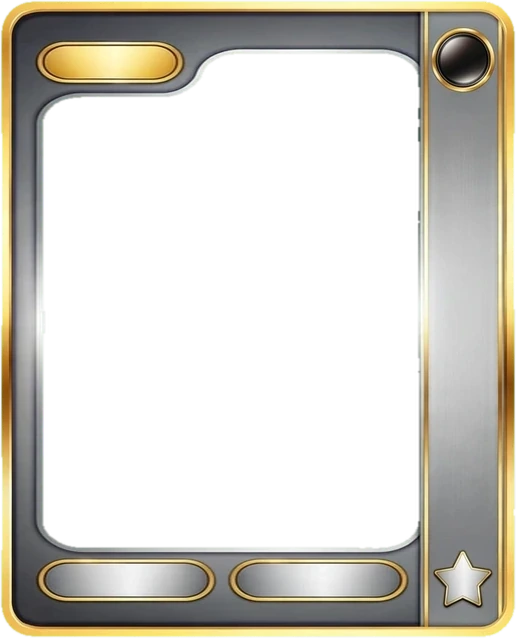
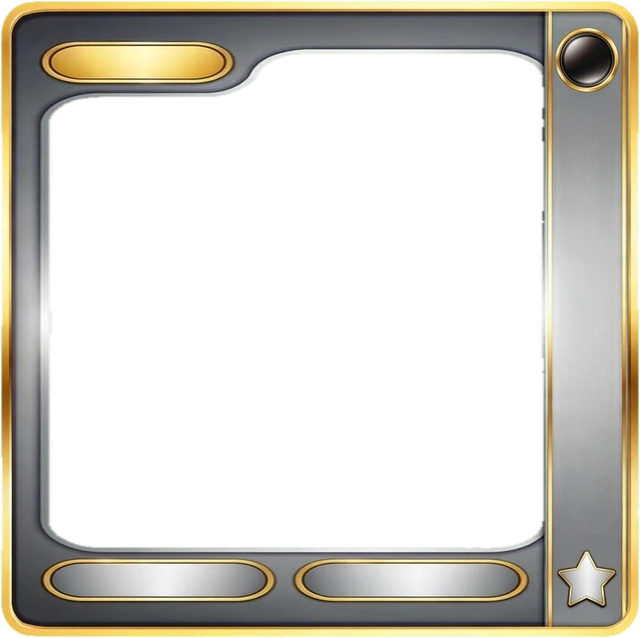
Frame v7: square art window (frame re-cut), the portrait fills it edge to edge with nothing cropped; square cards on field and shop
Claude-Session: https://claude.ai/code/session_01Wbggb4V1dqsWsK9Q53zZ7L

diff --git a/docs/sw.js b/docs/sw.js
@@ -1,7 +1,7 @@
-// ZOR service worker, build bbfde9cd94 (generated by tools/build-single.js)
-const SHELL = 'zor-shell-bbfde9cd94', ASSETS = 'zor-assets';
-const CORE = ["app.30e8706ce3.js","app.63cae4dc41.css"];
-const KEEP = new Set(["app.30e8706ce3.js","app.63cae4dc41.css","assets/characters/ash_ronin.b91304d25a.jpg","assets/characters/caldera_seer.8efcbc0994.jpg","assets/characters/chrome_ronin.91da853ee1.jpg","assets/characters/coral_sentinel.b6ddec339c.jpg","assets/characters/daigo.cc3edd87ac.webp","assets/characters/daikai.e1c7f0112b.webp","assets/characters/firewall_unit.2394f02d73.jpg","assets/characters/forge_bulwark.39dc9480d6.jpg","assets/characters/gensai.408f19856a.webp","assets/characters/genzo.1f7f86d06c.webp","assets/characters/godo.3fe19dfc28.jpg","assets/characters/goka.959baa5cfd.jpg","assets/characters/grid_hound.97bbae0b7a.jpg","assets/characters/haruka.8ee667bd90.webp","assets/characters/hayate.5533bd2fef.webp","assets/characters/hinotori.bca3e4ca4b.webp","assets/characters/hisui.94d6633b67.webp","assets/characters/ibara.f79f7b013e.webp","assets/characters/juzo.38c23c791c.jpg","assets/characters/kagemaru.0a9f0b1128.webp","assets/characters/kagira.c83f24f3ba.jpg","assets/characters/kairyu.16caa1bd15.webp","assets/characters/kaito.0d2e300029.jpg","assets/characters/kaminari.1599b31ad7.webp","assets/characters/kashiwagi.9c1b9ca029.webp","assets/characters/kazehaya.3ccd2157c4.webp","assets/characters/kinoko.9ec597579f.webp","assets/characters/kodama.3d77b1f0b5.webp","assets/characters/kogetsu.7b23ef4551.jpg","assets/characters/kota.04dbb7995d.webp","assets/characters/kurenai.93edfd5786.jpg","assets/characters/lunar_blade.126fa30053.jpg","assets/characters/merin.ebcfd77e4e.jpg","assets/characters/mikazuki.6865ec476b.webp","assets/characters/mist_witch.f98a2be0d7.jpg","assets/characters/mitsuki.f0ed177592.jpg","assets/characters/miyuki.6a7d1b2135.jpg","assets/characters/mizuki.7e7b4c2f41.jpg","assets/characters/momo.b3e2674318.jpg","assets/characters/moss_warden.e168290347.jpg","assets/characters/mugen.14f10aad71.jpg","assets/characters/natsuki.dc70bd05f2.jpg","assets/characters/nayako.a5739a8a64.webp","assets/characters/orath.6416dc3076.jpg","assets/characters/otohime.76f21413dc.webp","assets/characters/pixel_sniper.51b8a1f42d.jpg","assets/characters/pyre_archer.2217e7a133.jpg","assets/characters/reiji.95538d7786.jpg","assets/characters/rika.45b3683bfe.webp","assets/characters/root_shaman.dc642bfab8.jpg","assets/characters/ryuji.adeae7a07a.jpg","assets/characters/ryujin.5235bfbbe3.jpg","assets/characters/seiji.7efa42c032.jpg","assets/characters/shiori.002cfc272d.webp","assets/characters/shirayuki.3a99692e55.webp","assets/characters/shiro.e6eb3ecf74.jpg","assets/characters/spark_wraith.f1f843dfe0.jpg","assets/characters/spectral_coder.6e74c78da5.jpg","assets/characters/taiju.83b72a2264.webp","assets/characters/takashi.6919365abc.webp","assets/characters/thora.901bdb8770.webp","assets/characters/thorn_fox.5596e5dee5.jpg","assets/characters/tide_priest.d374228355.jpg","assets/characters/tomoe.6418faa99c.jpg","assets/characters/tsubaki.485b649132.jpg","assets/characters/wakaba.3a96f9a22b.webp","assets/characters/wave_caller.10d7340319.jpg","assets/characters/wild_stalker.a68ac5344e.jpg","assets/characters/yoshino.d1b870251e.webp","assets/characters/yozora.b0d62df4b3.jpg","assets/characters/yuta.fb57d5b062.jpg","assets/characters/zerokai.0a7cf4d51e.jpg","assets/fonts/lalezar-arabic-400-normal.c115bb42ec.woff2","assets/fonts/lalezar-latin-400-normal.3080e8aefe.woff2","assets/fonts/readex-pro-arabic-400-normal.e0c1f86d03.woff2","assets/fonts/readex-pro-arabic-500-normal.a8acfe2274.woff2","assets/fonts/readex-pro-arabic-700-normal.cc70fda83e.woff2","assets/fonts/readex-pro-latin-400-normal.7664b676c7.woff2","assets/fonts/readex-pro-latin-500-normal.1ef477132b.woff2","assets/fonts/readex-pro-latin-700-normal.d47d4c818f.woff2","assets/frames/ember.19b2b3cc28.webp","assets/frames/ember-sil.b3b62a001c.webp","assets/frames/tide.c02c52dd37.webp","assets/frames/tide-sil.f65be4a756.webp","assets/frames/neon.adf53493b8.webp","assets/frames/neon-sil.d36b6424aa.webp","assets/frames/sylvan.a7348a89d5.webp","assets/frames/sylvan-sil.ef3a0fca85.webp","assets/frames/arena-tavern.848035afa3.webp","assets/frames/arena-gambler.0617dbb114.webp","assets/frames/arena-forge.5663b1e378.webp","assets/frames/arena-map.f3a85fdc1f.webp","assets/frames/arena-dungeon.87e9898aec.webp","assets/frames/arena-temple.62ca8793fc.webp","assets/ui/ic_shard.57e3afc1a2.webp","assets/ui/ic_gift.f05e6ed8af.webp","assets/ui/ic_home.aceefed7fc.webp","assets/ui/ic_cards.d27bbeede5.webp","assets/ui/ic_pack.9fc820de64.webp","assets/ui/ic_medal.ea32305964.webp","assets/ui/ic_tower.bf4e7ec058.webp","assets/ui/ic_more.51a6dac3ab.webp","assets/ui/ic_gear.2358906162.webp","assets/ui/bg_tide.c3037c3102.webp","assets/ui/btn_red.d63414bfb5.webp","assets/ui/arena/bg.333d4f46f6.webp","assets/ui/arena/slot.fa4b2f815d.webp","assets/ui/arena/btn.68220622e0.webp","assets/ui/arena/eq.24e584270e.webp","assets/ui/arena/drawer.b0073b6f97.webp","assets/ui/arena/card.07cd71c3b0.webp","assets/ui/arena/handle.774c9d2419.webp","assets/ui/arena2/field.e1297bd395.webp","assets/ui/arena2/wood.7dd4a362d5.webp","assets/ui/arena2/up.2463f88457.webp","assets/ui/arena2/refresh.6f3f00f700.webp","assets/ui/arena2/lock.5959281e27.webp","assets/ui/arena2/off.49b0294c14.webp","assets/ui/arena2/eq.80abd41b0c.webp","assets/ui/arena2/bsock.75aa7edfaa.webp","assets/ui/arena2/ready.0ca8a61240.webp","assets/ui/arena2/frame_common.1371b58bdf.webp","assets/ui/arena2/frame_rare.46d3c32cb8.webp","assets/ui/arena2/frame_epic.ca8e4f70ea.webp","assets/ui/arena2/frame_legendary.2f128577cc.webp"]);
+// ZOR service worker, build 034b41f8c2 (generated by tools/build-single.js)
+const SHELL = 'zor-shell-034b41f8c2', ASSETS = 'zor-assets';
+const CORE = ["app.30e8706ce3.js","app.41dc40c6a6.css"];
+const KEEP = new Set(["app.30e8706ce3.js","app.41dc40c6a6.css","assets/characters/ash_ronin.b91304d25a.jpg","assets/characters/caldera_seer.8efcbc0994.jpg","assets/characters/chrome_ronin.91da853ee1.jpg","assets/characters/coral_sentinel.b6ddec339c.jpg","assets/characters/daigo.cc3edd87ac.webp","assets/characters/daikai.e1c7f0112b.webp","assets/characters/firewall_unit.2394f02d73.jpg","assets/characters/forge_bulwark.39dc9480d6.jpg","assets/characters/gensai.408f19856a.webp","assets/characters/genzo.1f7f86d06c.webp","assets/characters/godo.3fe19dfc28.jpg","assets/characters/goka.959baa5cfd.jpg","assets/characters/grid_hound.97bbae0b7a.jpg","assets/characters/haruka.8ee667bd90.webp","assets/characters/hayate.5533bd2fef.webp","assets/characters/hinotori.bca3e4ca4b.webp","assets/characters/hisui.94d6633b67.webp","assets/characters/ibara.f79f7b013e.webp","assets/characters/juzo.38c23c791c.jpg","assets/characters/kagemaru.0a9f0b1128.webp","assets/characters/kagira.c83f24f3ba.jpg","assets/characters/kairyu.16caa1bd15.webp","assets/characters/kaito.0d2e300029.jpg","assets/characters/kaminari.1599b31ad7.webp","assets/characters/kashiwagi.9c1b9ca029.webp","assets/characters/kazehaya.3ccd2157c4.webp","assets/characters/kinoko.9ec597579f.webp","assets/characters/kodama.3d77b1f0b5.webp","assets/characters/kogetsu.7b23ef4551.jpg","assets/characters/kota.04dbb7995d.webp","assets/characters/kurenai.93edfd5786.jpg","assets/characters/lunar_blade.126fa30053.jpg","assets/characters/merin.ebcfd77e4e.jpg","assets/characters/mikazuki.6865ec476b.webp","assets/characters/mist_witch.f98a2be0d7.jpg","assets/characters/mitsuki.f0ed177592.jpg","assets/characters/miyuki.6a7d1b2135.jpg","assets/characters/mizuki.7e7b4c2f41.jpg","assets/characters/momo.b3e2674318.jpg","assets/characters/moss_warden.e168290347.jpg","assets/characters/mugen.14f10aad71.jpg","assets/characters/natsuki.dc70bd05f2.jpg","assets/characters/nayako.a5739a8a64.webp","assets/characters/orath.6416dc3076.jpg","assets/characters/otohime.76f21413dc.webp","assets/characters/pixel_sniper.51b8a1f42d.jpg","assets/characters/pyre_archer.2217e7a133.jpg","assets/characters/reiji.95538d7786.jpg","assets/characters/rika.45b3683bfe.webp","assets/characters/root_shaman.dc642bfab8.jpg","assets/characters/ryuji.adeae7a07a.jpg","assets/characters/ryujin.5235bfbbe3.jpg","assets/characters/seiji.7efa42c032.jpg","assets/characters/shiori.002cfc272d.webp","assets/characters/shirayuki.3a99692e55.webp","assets/characters/shiro.e6eb3ecf74.jpg","assets/characters/spark_wraith.f1f843dfe0.jpg","assets/characters/spectral_coder.6e74c78da5.jpg","assets/characters/taiju.83b72a2264.webp","assets/characters/takashi.6919365abc.webp","assets/characters/thora.901bdb8770.webp","assets/characters/thorn_fox.5596e5dee5.jpg","assets/characters/tide_priest.d374228355.jpg","assets/characters/tomoe.6418faa99c.jpg","assets/characters/tsubaki.485b649132.jpg","assets/characters/wakaba.3a96f9a22b.webp","assets/characters/wave_caller.10d7340319.jpg","assets/characters/wild_stalker.a68ac5344e.jpg","assets/characters/yoshino.d1b870251e.webp","assets/characters/yozora.b0d62df4b3.jpg","assets/characters/yuta.fb57d5b062.jpg","assets/characters/zerokai.0a7cf4d51e.jpg","assets/fonts/lalezar-arabic-400-normal.c115bb42ec.woff2","assets/fonts/lalezar-latin-400-normal.3080e8aefe.woff2","assets/fonts/readex-pro-arabic-400-normal.e0c1f86d03.woff2","assets/fonts/readex-pro-arabic-500-normal.a8acfe2274.woff2","assets/fonts/readex-pro-arabic-700-normal.cc70fda83e.woff2","assets/fonts/readex-pro-latin-400-normal.7664b676c7.woff2","assets/fonts/readex-pro-latin-500-normal.1ef477132b.woff2","assets/fonts/readex-pro-latin-700-normal.d47d4c818f.woff2","assets/frames/ember.19b2b3cc28.webp","assets/frames/ember-sil.b3b62a001c.webp","assets/frames/tide.c02c52dd37.webp","assets/frames/tide-sil.f65be4a756.webp","assets/frames/neon.adf53493b8.webp","assets/frames/neon-sil.d36b6424aa.webp","assets/frames/sylvan.a7348a89d5.webp","assets/frames/sylvan-sil.ef3a0fca85.webp","assets/frames/arena-tavern.848035afa3.webp","assets/frames/arena-gambler.0617dbb114.webp","assets/frames/arena-forge.5663b1e378.webp","assets/frames/arena-map.f3a85fdc1f.webp","assets/frames/arena-dungeon.87e9898aec.webp","assets/frames/arena-temple.62ca8793fc.webp","assets/ui/ic_shard.57e3afc1a2.webp","assets/ui/ic_gift.f05e6ed8af.webp","assets/ui/ic_home.aceefed7fc.webp","assets/ui/ic_cards.d27bbeede5.webp","assets/ui/ic_pack.9fc820de64.webp","assets/ui/ic_medal.ea32305964.webp","assets/ui/ic_tower.bf4e7ec058.webp","assets/ui/ic_more.51a6dac3ab.webp","assets/ui/ic_gear.2358906162.webp","assets/ui/bg_tide.c3037c3102.webp","assets/ui/btn_red.d63414bfb5.webp","assets/ui/arena/bg.333d4f46f6.webp","assets/ui/arena/slot.fa4b2f815d.webp","assets/ui/arena/btn.68220622e0.webp","assets/ui/arena/eq.24e584270e.webp","assets/ui/arena/drawer.b0073b6f97.webp","assets/ui/arena/card.07cd71c3b0.webp","assets/ui/arena/handle.774c9d2419.webp","assets/ui/arena2/field.e1297bd395.webp","assets/ui/arena2/wood.7dd4a362d5.webp","assets/ui/arena2/up.2463f88457.webp","assets/ui/arena2/refresh.6f3f00f700.webp","assets/ui/arena2/lock.5959281e27.webp","assets/ui/arena2/off.49b0294c14.webp","assets/ui/arena2/eq.80abd41b0c.webp","assets/ui/arena2/bsock.75aa7edfaa.webp","assets/ui/arena2/ready.0ca8a61240.webp","assets/ui/arena2/frame_common.23590fba26.webp","assets/ui/arena2/frame_rare.c88a8d88d8.webp","assets/ui/arena2/frame_epic.11a8b8c126.webp","assets/ui/arena2/frame_legendary.7744d1664e.webp"]);
 const HASHED = /\.[0-9a-f]{10}\.(?:js|css|webp|jpe?g|png|woff2)$/;
 const rel = (u) => new URL(u, self.registration.scope).href;
 self.addEventListener('install', (e) => {

diff --git a/docs/app.41dc40c6a6.css b/docs/app.41dc40c6a6.css
@@ -3049,10 +3049,10 @@ body.reduce-motion .lv-flash, body.reduce-motion .merge-flash, body.reduce-motio
 
 /* ===== card frame v5 (approved sheet, model B): gold rim + rarity-coloured side strip. Field/bench cards (.fr4) and shop cards (.sc) on phones ===== */
 @media (max-width: 860px) and (orientation: portrait) {
-  .tcard.fr4.r-common, .sc.rc-common { --fr5: url(assets/ui/arena2/frame_common.1371b58bdf.webp); }
-  .tcard.fr4.r-rare, .sc.rc-rare { --fr5: url(assets/ui/arena2/frame_rare.46d3c32cb8.webp); }
-  .tcard.fr4.r-epic, .sc.rc-epic { --fr5: url(assets/ui/arena2/frame_epic.ca8e4f70ea.webp); }
-  .tcard.fr4.r-legendary, .sc.rc-legendary { --fr5: url(assets/ui/arena2/frame_legendary.2f128577cc.webp); }
+  .tcard.fr4.r-common, .sc.rc-common { --fr5: url(assets/ui/arena2/frame_common.23590fba26.webp); }
+  .tcard.fr4.r-rare, .sc.rc-rare { --fr5: url(assets/ui/arena2/frame_rare.c88a8d88d8.webp); }
+  .tcard.fr4.r-epic, .sc.rc-epic { --fr5: url(assets/ui/arena2/frame_epic.11a8b8c126.webp); }
+  .tcard.fr4.r-legendary, .sc.rc-legendary { --fr5: url(assets/ui/arena2/frame_legendary.7744d1664e.webp); }
   /* field / bench mini cards */
   .tcard.hc.cv3.mini.fr4 { aspect-ratio: .615; filter: drop-shadow(0 2px 3px #000a); }
   .tcard.hc.cv3.mini.fr4.r-legendary { filter: drop-shadow(0 0 6px #ff9f1a99) drop-shadow(0 2px 3px #000a); }
@@ -3124,4 +3124,23 @@ body.reduce-motion .lv-flash, body.reduce-motion .merge-flash, body.reduce-motio
   .tcard.hc.cv3.mini.fr4 .hc-hp b, .tcard.hc.cv3.mini.fr4 .hc-atk b { font-size: 9cqw; } .tcard.hc.cv3.mini.fr4 .hc-hp b.sm, .tcard.hc.cv3.mini.fr4 .hc-atk b.sm { font-size: 7.2cqw; }
   .fr4 .fr4-pw, .fr4 .fr4-st { font-size: 8.4cqw; }
   #scr-match.prep-focus .sc .sc-info { right: 20%; }
+}
+
+/* ===== frame v7: the window is exactly square (frame re-cut), so the square portrait fills it edge to edge: nothing cropped, no filler ===== */
+@media (max-width: 860px) and (orientation: portrait) {
+  #scr-match.prep-focus .field .cell { aspect-ratio: 1; }
+  .tcard.hc.cv3.mini.fr4 { aspect-ratio: 1; }
+  #scr-match.prep-focus .sd-cards .sc { aspect-ratio: 1; }
+  .tcard.hc.cv3.mini.fr4 .hc-art, #scr-match.prep-focus .sc .sc-art { left: 7.9%; right: 15.5%; top: 8.65%; bottom: 14.5%; border-radius: 7%; background: #120b26; }
+  .tcard.hc.cv3.mini.fr4 .hc-art::before, #scr-match.prep-focus .sc .sc-art::before { display: none; }
+  .tcard.hc.cv3.mini.fr4 .hc-art svg.portrait, #scr-match.prep-focus .sc .sc-art svg.portrait { top: 0; left: 0; transform: none; width: 100%; height: 100%; aspect-ratio: auto; }
+  .fr4 .fr4-pw, #scr-match.prep-focus .sc .sc-pw { left: 6.65%; width: 29.1%; }
+  .tcard.hc.cv3.mini.fr4 .hc-hp, #scr-match.prep-focus .sc .sc-hp { left: 7.2%; width: 35%; }
+  .tcard.hc.cv3.mini.fr4 .hc-atk, #scr-match.prep-focus .sc .sc-atk { left: 46.9%; width: 35.6%; }
+  .fr4 .fr4-role, #scr-match.prep-focus .sc .sc-role { left: 91.8%; width: 8.5%; }
+  .fr4 .fr4-st, #scr-match.prep-focus .sc .sc-cost { left: 91.8%; width: 9.1%; }
+  .fr4 .fr4-rar { left: 85.6%; right: 1.2%; font-size: 5.6cqw; }
+  .tcard.hc.cv3.mini.fr4 .hc-hp b, .tcard.hc.cv3.mini.fr4 .hc-atk b { font-size: 8cqw; line-height: 1; } .tcard.hc.cv3.mini.fr4 .hc-hp b.sm, .tcard.hc.cv3.mini.fr4 .hc-atk b.sm { font-size: 7cqw; }
+  .fr4 .fr4-pw, .fr4 .fr4-st { font-size: 7.4cqw; line-height: 1; }
+  #scr-match.prep-focus .sc .sc-info { right: 17%; top: 10%; }
 }

diff --git a/ui/style.css b/ui/style.css
@@ -3114,3 +3114,22 @@ body.reduce-motion .lv-flash, body.reduce-motion .merge-flash, body.reduce-motio
   .fr4 .fr4-pw, .fr4 .fr4-st { font-size: 8.4cqw; }
   #scr-match.prep-focus .sc .sc-info { right: 20%; }
 }
+
+/* ===== frame v7: the window is exactly square (frame re-cut), so the square portrait fills it edge to edge: nothing cropped, no filler ===== */
+@media (max-width: 860px) and (orientation: portrait) {
+  #scr-match.prep-focus .field .cell { aspect-ratio: 1; }
+  .tcard.hc.cv3.mini.fr4 { aspect-ratio: 1; }
+  #scr-match.prep-focus .sd-cards .sc { aspect-ratio: 1; }
+  .tcard.hc.cv3.mini.fr4 .hc-art, #scr-match.prep-focus .sc .sc-art { left: 7.9%; right: 15.5%; top: 8.65%; bottom: 14.5%; border-radius: 7%; background: #120b26; }
+  .tcard.hc.cv3.mini.fr4 .hc-art::before, #scr-match.prep-focus .sc .sc-art::before { display: none; }
+  .tcard.hc.cv3.mini.fr4 .hc-art svg.portrait, #scr-match.prep-focus .sc .sc-art svg.portrait { top: 0; left: 0; transform: none; width: 100%; height: 100%; aspect-ratio: auto; }
+  .fr4 .fr4-pw, #scr-match.prep-focus .sc .sc-pw { left: 6.65%; width: 29.1%; }
+  .tcard.hc.cv3.mini.fr4 .hc-hp, #scr-match.prep-focus .sc .sc-hp { left: 7.2%; width: 35%; }
+  .tcard.hc.cv3.mini.fr4 .hc-atk, #scr-match.prep-focus .sc .sc-atk { left: 46.9%; width: 35.6%; }
+  .fr4 .fr4-role, #scr-match.prep-focus .sc .sc-role { left: 91.8%; width: 8.5%; }
+  .fr4 .fr4-st, #scr-match.prep-focus .sc .sc-cost { left: 91.8%; width: 9.1%; }
+  .fr4 .fr4-rar { left: 85.6%; right: 1.2%; font-size: 5.6cqw; }
+  .tcard.hc.cv3.mini.fr4 .hc-hp b, .tcard.hc.cv3.mini.fr4 .hc-atk b { font-size: 8cqw; line-height: 1; } .tcard.hc.cv3.mini.fr4 .hc-hp b.sm, .tcard.hc.cv3.mini.fr4 .hc-atk b.sm { font-size: 7cqw; }
+  .fr4 .fr4-pw, .fr4 .fr4-st { font-size: 7.4cqw; line-height: 1; }
+  #scr-match.prep-focus .sc .sc-info { right: 17%; top: 10%; }
+}

diff --git a/docs/index.html b/docs/index.html
@@ -2,7 +2,7 @@
 <html lang="ar" dir="rtl">
 <head>
 <meta charset="utf-8">
-<meta name="zor-build" content="bbfde9cd94">
+<meta name="zor-build" content="034b41f8c2">
 <meta name="viewport" content="width=device-width,initial-scale=1,viewport-fit=cover">
 <meta name="theme-color" content="#121010">
 <link rel="manifest" href="manifest.webmanifest">
@@ -16,7 +16,7 @@
 <title>ZOR</title>
 <link rel="preload" href="assets/fonts/readex-pro-arabic-400-normal.e0c1f86d03.woff2" as="font" type="font/woff2" crossorigin>
 <link rel="preload" href="assets/fonts/lalezar-arabic-400-normal.c115bb42ec.woff2" as="font" type="font/woff2" crossorigin>
-<link rel="stylesheet" href="app.63cae4dc41.css">
+<link rel="stylesheet" href="app.41dc40c6a6.css">
 </head>
 <body data-nav="1">
 <div id="app">
